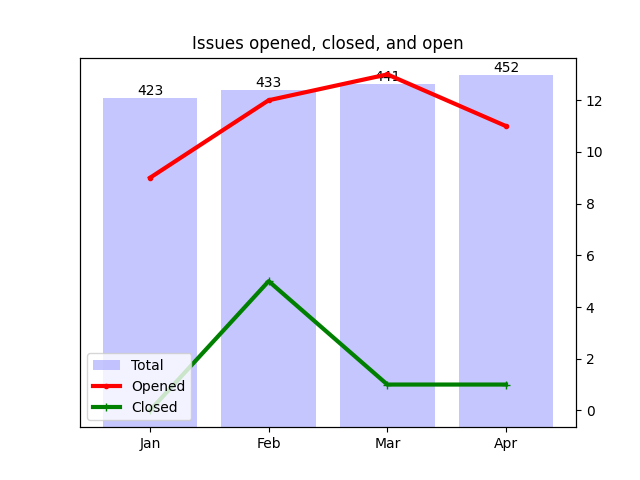
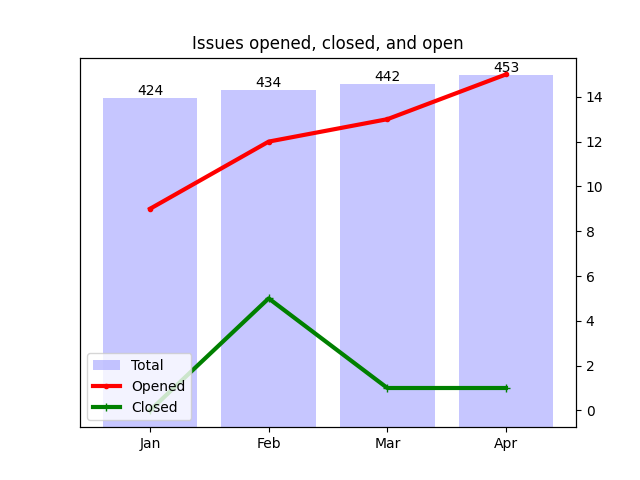
Apply automatic changes

diff --git a/docs/analytics.html b/docs/analytics.html
@@ -84,7 +84,7 @@ td .material-icons { display:inline-flex; vertical-align: top; font-size:1.1rem;
 						</tr>
 						<tr>
 							<td>Apr</td>
-							<td>11</td>
+							<td>15</td>
 							<td>1</td>
 						</tr>
 					</table>
@@ -105,7 +105,7 @@ td .material-icons { display:inline-flex; vertical-align: top; font-size:1.1rem;
 							<td>
 								<a href="http://github.com/notofonts/latin-greek-cyrillic/issues">latin-greek-cyrillic</a>
 							</td>
-							<td>123</td>
+							<td>124</td>
 						</tr>
 						<tr>
 							<td>
@@ -135,7 +135,7 @@ td .material-icons { display:inline-flex; vertical-align: top; font-size:1.1rem;
 							<td>
 								<a href="http://github.com/notofonts/symbols/issues">symbols</a>
 							</td>
-							<td>13</td>
+							<td>14</td>
 						</tr>
 						<tr>
 							<td>
@@ -157,7 +157,7 @@ td .material-icons { display:inline-flex; vertical-align: top; font-size:1.1rem;
 						</tr>
 						<tr>
 							<td>
-								<a href="http://github.com/notofonts/dives-akuru/issues">dives-akuru</a>
+								<a href="http://github.com/notofonts/bengali/issues">bengali</a>
 							</td>
 							<td>8</td>
 						</tr>
@@ -200,7 +200,7 @@ td .material-icons { display:inline-flex; vertical-align: top; font-size:1.1rem;
 				<tr>
 					<td>5</td>
 					<td>
-						<a href="http://github.com/notofonts/bhaiksuki/issues">bhaiksuki</a>,  						<a href="http://github.com/notofonts/devanagari/issues">devanagari</a>,  						<a href="http://github.com/notofonts/gujarati/issues">gujarati</a>,  						<a href="http://github.com/notofonts/nandinagari/issues">nandinagari</a>,  						<a href="http://github.com/notofonts/sign-writing/issues">sign-writing</a>,  						<a href="http://github.com/notofonts/syloti-nagri/issues">syloti-nagri</a>,  						<a href="http://github.com/notofonts/tibetan/issues">tibetan</a> 
+						<a href="http://github.com/notofonts/bhaiksuki/issues">bhaiksuki</a>,  						<a href="http://github.com/notofonts/gujarati/issues">gujarati</a>,  						<a href="http://github.com/notofonts/nandinagari/issues">nandinagari</a>,  						<a href="http://github.com/notofonts/sign-writing/issues">sign-writing</a>,  						<a href="http://github.com/notofonts/syloti-nagri/issues">syloti-nagri</a>,  						<a href="http://github.com/notofonts/tibetan/issues">tibetan</a> 
 					</td>
 				</tr>
 				<tr>
@@ -212,13 +212,13 @@ td .material-icons { display:inline-flex; vertical-align: top; font-size:1.1rem;
 				<tr>
 					<td>7</td>
 					<td>
-						<a href="http://github.com/notofonts/bengali/issues">bengali</a>,  						<a href="http://github.com/notofonts/egyptian-hieroglyphs/issues">egyptian-hieroglyphs</a>,  						<a href="http://github.com/notofonts/modi/issues">modi</a> 
+						<a href="http://github.com/notofonts/devanagari/issues">devanagari</a>,  						<a href="http://github.com/notofonts/egyptian-hieroglyphs/issues">egyptian-hieroglyphs</a>,  						<a href="http://github.com/notofonts/modi/issues">modi</a> 
 					</td>
 				</tr>
 				<tr>
 					<td>8</td>
 					<td>
-						<a href="http://github.com/notofonts/dives-akuru/issues">dives-akuru</a> 
+						<a href="http://github.com/notofonts/bengali/issues">bengali</a>,  						<a href="http://github.com/notofonts/dives-akuru/issues">dives-akuru</a> 
 					</td>
 				</tr>
 				<tr>
@@ -245,7 +245,7 @@ td .material-icons { display:inline-flex; vertical-align: top; font-size:1.1rem;
 						<tr>
 							<td>1</td>
 							<td>
-									<a href="http://github.com/notofonts/latin-greek-cyrillic/issues">latin-greek-cyrillic</a>: 123, 
+									<a href="http://github.com/notofonts/latin-greek-cyrillic/issues">latin-greek-cyrillic</a>: 124, 
 
 									<a href="http://github.com/notofonts/arabic/issues">arabic</a>: 19, 
 
@@ -253,15 +253,15 @@ td .material-icons { display:inline-flex; vertical-align: top; font-size:1.1rem;
 
 									<a href="http://github.com/notofonts/nastaliq/issues">nastaliq</a>: 10, 
 
-									<a href="http://github.com/notofonts/bengali/issues">bengali</a>: 7, 
+									<a href="http://github.com/notofonts/bengali/issues">bengali</a>: 8, 
+
+									<a href="http://github.com/notofonts/devanagari/issues">devanagari</a>: 7, 
 
 									<a href="http://github.com/notofonts/gurmukhi/issues">gurmukhi</a>: 6, 
 
 									<a href="http://github.com/notofonts/kannada/issues">kannada</a>: 6, 
 
 									<a href="http://github.com/notofonts/malayalam/issues">malayalam</a>: 6, 
-
-									<a href="http://github.com/notofonts/devanagari/issues">devanagari</a>: 5, 
 
 									<a href="http://github.com/notofonts/gujarati/issues">gujarati</a>: 5, 
 
@@ -299,7 +299,7 @@ td .material-icons { display:inline-flex; vertical-align: top; font-size:1.1rem;
 							<td>
 									<a href="http://github.com/notofonts/math/issues">math</a>: 14, 
 
-									<a href="http://github.com/notofonts/symbols/issues">symbols</a>: 13, 
+									<a href="http://github.com/notofonts/symbols/issues">symbols</a>: 14, 
 
 									<a href="http://github.com/notofonts/syriac/issues">syriac</a>: 9, 
 
